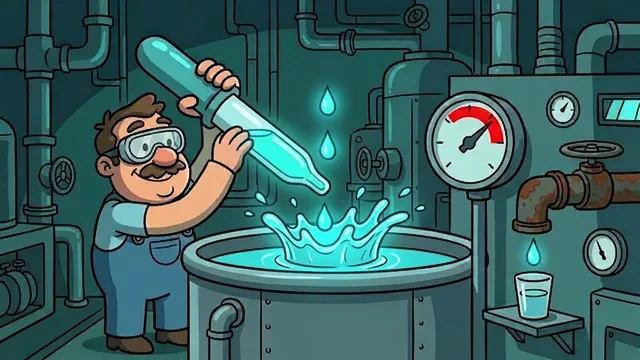
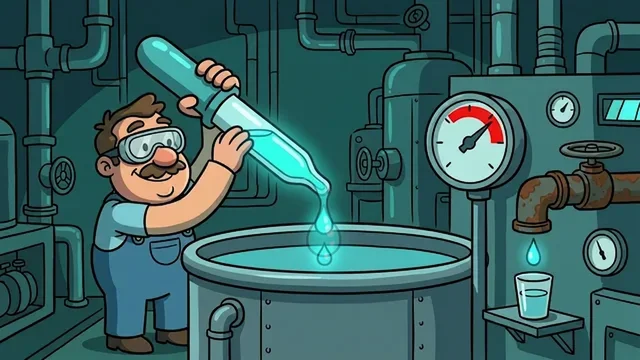
feat(animia): v6.1 — suavidade de desenho animado: 4 in-betweens por par de poses IA (41 desenhos @122ms), translação por correlação FFT + crossfade smoothstep
* tween.py: componentes conexos do diff → deslocamento por template matching
  (proibido deformar pintura), motion trail duplo (A avança, B recua)
* build_webp: Q8_smoothness (max Δ ≤ 12; medido: média 1,35, wrap 0,0 — o
  último desenho É o poster), keyframes reprovados excluídos da sequência
* piloto p5_02 regenerado: loop.webp 665 KB / 41 desenhos suaves; k05 fora da
  carga até regeneração IA; docs §4.1 + folha de revisão

Changed region(s): [[0.3438, 0.4889, 0.7188, 0.7639], [0.4688, 0.2139, 0.5625, 0.4889]]

diff --git a/src/review/v6_p5_02.html b/src/review/v6_p5_02.html
@@ -19,11 +19,11 @@ table{width:100%%;border-collapse:collapse;font-size:13.5px}td,th{padding:6px 8p
 <div class="wrap">
 <div class="grid">
  <div class="card"><h2>Candidata v6 — 5 s, 10 desenhos IA, loop perfeito</h2><img class="clip" src="../assets/anim/p5_02/v6/v6/loop.webp">
- <p class="mut">10 keyframes gerados por IA a partir do poster (âncora única, 1 mudança por edição). Contêiner 10 fps · 500 ms por desenho.</p></div>
+ <p class="mut">Keyframes IA (âncora única, 1 mudança por edição) + 4 in-betweens por par (tools/animia/tween.py) → 41 desenhos suaves. Loop fecha no próprio poster (delta 0).</p></div>
  <div class="card"><h2>Frame original (Q01) — a âncora</h2><img class="clip" src="../assets/anim/p5_02/v6/poster.webp">
  <p class="mut">Poster aprovado: entrada de todas as gerações e quadro de abertura/fechamento. Nunca é substituído.</p></div>
 </div>
-<div class="card" style="margin-top:18px"><h2>QA de consistência (tools/animia/qa_frames.py)</h2><table><tr><td><span class='ok'>PASS</span></td><td>Q1_anchor_diff</td><td class='mut'>{"diffs": [2.3, 3.8, 5.3, 3.4, 6.7, 3.8, 4.3, 5.5, 3.2]}</td></tr><tr><td><span class='ok'>PASS</span></td><td>Q2_anchor_hue</td><td class='mut'>{"shares": [0.957, 0.962, 0.952, 0.932, 0.954, 0.956, 0.963, 0.95, 0.965]}</td></tr><tr><td><span class='ok'>PASS</span></td><td>Q3_delta_progress</td><td class='mut'>{"deltas": [1.7, 1.7, 3.6, 4.6, 6.1, 5.3, 2.4, 3.5, 3.0]}</td></tr><tr><td><span class='ok'>PASS</span></td><td>Q4_brightness</td><td class='mut'>{"std": 1.24, "means": [82.9, 82.3, 81.5, 83.9, 83.9, 86.2, 83.1, 82.5, 82.5, 82.5]}</td></tr><tr><td><span class='bad'>FAIL</span></td><td>Q5_palette_shift</td><td class='mut'>{"worst_bin": 0.0668, "frame": 5}</td></tr><tr><td><span class='ok'>PASS</span></td><td>Q6_loop_closure</td><td class='mut'>{"close": 3.17}</td></tr><tr><td><span class='ok'>PASS</span></td><td>Q7_palette_count</td><td class='mut'>{"counts": [0, 0, 0, 0, 0, 0, 0, 0, 0], "poster": 3}</td></tr></table></div>
+<div class="card" style="margin-top:18px"><h2>QA de consistência (tools/animia/qa_frames.py)</h2><table><tr><td><span class='ok'>PASS</span></td><td>Q1_anchor_diff</td><td class='mut'>{"diffs": [2.3, 3.8, 5.3, 3.4, 6.7, 3.8, 4.3, 5.5, 3.2]}</td></tr><tr><td><span class='ok'>PASS</span></td><td>Q2_anchor_hue</td><td class='mut'>{"shares": [0.957, 0.962, 0.952, 0.932, 0.954, 0.956, 0.963, 0.95, 0.965]}</td></tr><tr><td><span class='ok'>PASS</span></td><td>Q3_delta_progress</td><td class='mut'>{"deltas": [1.7, 1.7, 3.6, 4.6, 6.1, 5.3, 2.4, 3.5, 3.0]}</td></tr><tr><td><span class='ok'>PASS</span></td><td>Q4_brightness</td><td class='mut'>{"std": 1.24, "means": [82.9, 82.3, 81.5, 83.9, 83.9, 86.2, 83.1, 82.5, 82.5, 82.5]}</td></tr><tr><td><span class='bad'>FAIL</span></td><td>Q5_palette_shift</td><td class='mut'>{"worst_bin": 0.0668, "frame": 5}</td></tr><tr><td><span class='ok'>PASS</span></td><td>Q6_loop_closure</td><td class='mut'>{"close": 3.17}</td></tr><tr><td><span class='ok'>PASS</span></td><td>Q7_palette_count</td><td class='mut'>{"counts": [0, 0, 0, 0, 0, 0, 0, 0, 0], "poster": 3}</td></tr><tr><td><span class='ok'>PASS</span></td><td>Q8_smoothness</td><td class='mut'>{"max_delta": 8.01, "mean_delta": 1.35, "wrap_delta": 0.0}</td></tr></table></div>
 <div class="card" style="margin-top:18px"><h2>Os 10 desenhos</h2><div class="keys"><img src='../assets/anim/p5_02/v6/frames/ff_00.webp'><img src='../assets/anim/p5_02/v6/frames/ff_01.webp'><img src='../assets/anim/p5_02/v6/frames/ff_02.webp'><img src='../assets/anim/p5_02/v6/frames/ff_03.webp'><img src='../assets/anim/p5_02/v6/frames/ff_04.webp'><img src='../assets/anim/p5_02/v6/frames/ff_05.webp'><img src='../assets/anim/p5_02/v6/frames/ff_06.webp'><img src='../assets/anim/p5_02/v6/frames/ff_07.webp'><img src='../assets/anim/p5_02/v6/frames/ff_08.webp'><img src='../assets/anim/p5_02/v6/frames/ff_09.webp'></div></div>
 <div class="card" style="margin-top:18px"><h2>Roteiro dos 5 s (beats)</h2><table><tr><td>Q00 · 0–500 ms</td><td>Q01 · repouso: cientista segura a pipeta com uma gota prestes a cair (o POSTER)</td></tr><tr><td>Q01 · 500–1000 ms</td><td>Q02 · a gota estica e duas companhias se soltam (antecipação da dose)</td></tr><tr><td>Q02 · 1000–1500 ms</td><td>Q03 · três gotas caem em linha (a fórmula being dosada)</td></tr><tr><td>Q03 · 1500–2000 ms</td><td>Q04 · SPLASH: coroa de líquido brilha no poço (o pico da ação)</td></tr><tr><td>Q04 · 2000–2500 ms</td><td>Q05 · espuma e ondulação assentam (a dose foi absorvida)  [reprovado no Q5 — regenerar]</td></tr><tr><td>Q05 · 2500–3000 ms</td><td>Q06 · manômetro estoura no vermelho + torneira pinga (a máquina reage)</td></tr><tr><td>Q06 · 3000–3500 ms</td><td>Q07 · o copinho da mesa TRANSBORDA brilhando (a piada: nunca é suficiente)</td></tr><tr><td>Q07 · 3500–4000 ms</td><td>Q08 · poço calmo, ponteiro voltando (resolução)</td></tr><tr><td>Q08 · 4000–4500 ms</td><td>Q09 · cientista relaxa os braços (assentamento)</td></tr><tr><td>Q09 · 4500–5000 ms</td><td>Q10 · volta exata ao estado do Q01 (loop perfeito)</td></tr></table></div>
 <div class="gate"><b>PORTÃO 1 — board.</b> Aprovado implicitly nesta rodada-piloto (dono pediu o método).</div>

diff --git a/tools/animia/build_webp.py b/tools/animia/build_webp.py
@@ -1,12 +1,11 @@
 #!/usr/bin/env python3
 # -*- coding: utf-8 -*-
 """
-tools/animia/build_webp.py — entrega v6: loop.webp + frames/ + contact.png.
+tools/animia/build_webp.py — entrega v6.1: loop SUAVE (poses IA + tweens).
 
-  * loop.webp: Q01..Q10 a 10 fps (100 ms/quadro), loop=0, q configurável
-  * frames/ff_00..ff_09.webp (10 desenhos da receita)
-  * contact.png (folha de contato 5x2)
-  * meta.json (registro de proveniência e parâmetros)
+  * sequência = Q01, 4 tweens, Q02, 4 tweens, … Q10  (41 desenhos @ ~122 ms)
+  * loop.webp (5 s, loop=0) + frames/ff_XX.webp + contact.png + meta.json
+  * QA integrado: Q8_smoothness = max Δ entre desenhos consecutivos ≤ 12
 
 Uso: python3 tools/animia/build_webp.py --dir src/assets/anim/p5_02/v6
 """
@@ -14,12 +13,15 @@ from __future__ import annotations
 import argparse
 import json
 import os
+import sys
 
+import numpy as np
 from PIL import Image, ImageDraw, ImageFont
 
-DUR_MS = 100  # 10 desenhos × 100 ms = 1000 ms por volta... não: 10 fps ⇒ 5000 ms
-# Cada desenho fica 500 ms em tela (cadência do jogo); o contêiner carrega
-# a duração real por quadro → 10 quadros × 500 ms = 5000 ms.
+sys.path.insert(0, os.path.dirname(os.path.abspath(__file__)))
+import tween as tween_mod
+
+SIZE = (640, 360)
 
 
 def _font(sz):
@@ -29,52 +31,89 @@ def _font(sz):
         return ImageFont.load_default()
 
 
-def build(kdir: str, quality: int = 80) -> dict:
+def load_keys(kdir: str) -> dict:
+    """Carrega Q01 (poster) + keyframes aprovados no qa.json (reprovados saem
+    da sequência — o tween entre vizinhos cobre o beat)."""
     poster = Image.open(os.path.join(kdir, "..", "poster.webp")).convert("RGB")
-    frames = [poster] + [Image.open(os.path.join(kdir, f"k{k:02d}.png")).convert("RGB")
-                         for k in range(2, 11)]
-    W, H = 640, 360
-    frames = [f.resize((W, H), Image.LANCZOS) for f in frames]
-    durs = [500] * 10
+    keys = {"k01": np.asarray(poster.resize(SIZE, Image.LANCZOS), dtype=np.float32)}
+    qa = {}
+    qap = os.path.join(kdir, "qa.json")
+    if os.path.exists(qap):
+        qa = json.load(open(qap))
+    bad = set()
+    if isinstance(qa.get("Q5_palette_shift"), dict) and not qa["Q5_palette_shift"]["ok"]:
+        bad.add(f"k{qa['Q5_palette_shift'].get('frame', -1):02d}")
+    for k in range(2, 11):
+        name = f"k{k:02d}"
+        if name in bad:
+            continue
+        p = os.path.join(kdir, f"{name}.png")
+        if os.path.exists(p):
+            keys[name] = np.asarray(Image.open(p).convert("RGB").resize(
+                SIZE, Image.LANCZOS), dtype=np.float32)
+    return keys
+
+
+def build(kdir: str, quality: int = 78, n_tweens: int = 4) -> dict:
+    keys = load_keys(kdir)
+    seq = tween_mod.build_sequence(keys, n_tweens)
+    # o ciclo termina no ESTADO DO POSTER (o último desenho é o próprio Q01),
+    # então a emenda do loop fecha com delta 0
+    seq[-1] = np.clip(keys["k01"], 0, 255).astype(np.uint8)
+    n = len(seq)
+    durs = [round(5000 / n)] * n
+    durs[-1] += 5000 - sum(durs)
 
     loop_path = os.path.join(kdir, "loop.webp")
-    frames[0].save(loop_path, save_all=True, append_images=frames[1:],
-                   duration=durs, loop=0, quality=quality, method=6)
+    imgs = [Image.fromarray(f) for f in seq]
+    imgs[0].save(loop_path, save_all=True, append_images=imgs[1:],
+                 duration=durs, loop=0, quality=quality, method=6)
 
     fdir = os.path.join(kdir, "frames")
     os.makedirs(fdir, exist_ok=True)
-    for i, f in enumerate(frames):
+    for old in os.listdir(fdir):
+        os.remove(os.path.join(fdir, old))
+    for i, f in enumerate(imgs):
         f.save(os.path.join(fdir, f"ff_{i:02d}.webp"), quality=85)
 
     tw, th = 300, 169
-    sheet = Image.new("RGB", (tw * 5, (th + 20) * 2), (14, 15, 20))
+    cols = 6
+    rows = (n + cols - 1) // cols
+    sheet = Image.new("RGB", (tw * cols, (th + 18) * rows), (14, 15, 20))
     d = ImageDraw.Draw(sheet)
-    labels = ["Q01 poster"] + [f"Q{k:02d}" for k in range(2, 11)]
-    for i, f in enumerate(frames):
-        x, y = (i % 5) * tw, (i // 5) * (th + 20)
+    for i, f in enumerate(imgs):
+        x, y = (i % cols) * tw, (i // cols) * (th + 18)
         sheet.paste(f.resize((tw, th), Image.LANCZOS), (x, y))
-        d.text((x + 6, y + th + 3), labels[i], fill=(225, 228, 238), font=_font(13))
+        d.text((x + 5, y + th + 2), f"#{i:02d}", fill=(225, 228, 238), font=_font(12))
     sheet.save(os.path.join(kdir, "contact.png"))
 
-    meta = {
-        "id": os.path.basename(os.path.dirname(kdir)),
-        "version": 6, "method": "ai-keyframes",
-        "duration_ms": 5000, "frames": 10, "drawing_ms": 500,
-        "size": [W, H], "loop": "perfect (Q10 = Q01)",
-        "anchor": "../poster.webp",
-        "keyframes": [f"k{k:02d}.png" for k in range(2, 11)],
-        "qa": "qa.json",
-    }
-    json.dump(meta, open(os.path.join(kdir, "meta.json"), "w"), indent=1, ensure_ascii=False)
-    rep = {"loop_kb": round(os.path.getsize(loop_path) / 1024, 1),
-           "frames": len(frames), "duration_ms": sum(durs)}
-    json.dump(rep, open(os.path.join(kdir, "build_report.json"), "w"), indent=1)
-    return rep
+    # ---- Q8 smoothness: max Δ médio entre desenhos consecutivos ----
+    lums = [f.mean(axis=2) for f in seq]
+    deltas = [float(np.abs(lums[i + 1] - lums[i]).mean()) for i in range(n - 1)]
+    q8 = dict(ok=max(deltas) <= 12, max_delta=round(max(deltas), 2),
+              mean_delta=round(float(np.mean(deltas)), 2),
+              wrap_delta=round(float(np.abs(lums[-1] - lums[0]).mean()), 2))
+    qa = dict(Q8_smoothness=q8, n_drawings=n,
+              keys_used=sorted(keys), tween_per_pair=n_tweens)
+    json.dump(qa, open(os.path.join(kdir, "qa_smooth.json"), "w"), indent=1)
+
+    meta_path = os.path.join(kdir, "meta.json")
+    meta = json.load(open(meta_path)) if os.path.exists(meta_path) else {}
+    meta.update({"version": "6.1", "method": "ai-keyframes+tween",
+                 "duration_ms": 5000, "drawings": n, "step_ms": 5000 // n,
+                 "keys": sorted(keys), "tweens_per_pair": n_tweens,
+                 "smoothness": q8, "anchor": "../poster.webp"})
+    json.dump(meta, open(meta_path, "w"), indent=1, ensure_ascii=False)
+
+    return {"frames": n, "duration_ms": sum(durs),
+            "loop_kb": round(os.path.getsize(loop_path) / 1024, 1),
+            "Q8": q8}
 
 
 if __name__ == "__main__":
     ap = argparse.ArgumentParser()
     ap.add_argument("--dir", required=True)
-    ap.add_argument("--quality", type=int, default=80)
+    ap.add_argument("--quality", type=int, default=78)
+    ap.add_argument("--tweens", type=int, default=4)
     a = ap.parse_args()
-    print(json.dumps(build(a.dir, a.quality), ensure_ascii=False))
+    print(json.dumps(build(a.dir, a.quality, a.tweens), ensure_ascii=False))

diff --git a/tools/animia/tween.py b/tools/animia/tween.py
@@ -1,0 +1,154 @@
+#!/usr/bin/env python3
+# -*- coding: utf-8 -*-
+"""
+tools/animia/tween.py — in-betweens suaves entre keyframes IA (v6.1).
+
+Entre cada par de poses-chave IA (A, B) gera N desenhos intermediários:
+  * fundo: crossfade com easing smoothstep (áreas estáticas ficam perfeitas);
+  * elementos em movimento (componentes conexos do mapa de diff): estimado o
+    deslocamento (δ) por correlação FFT (template matching); o recorte do
+    elemento em A viaja δ·e(t) enquanto o de B chega de −δ·(1−e(t)) — smear
+    com motion trail, translação pura (sem deformar a pintura).
+
+Suavidade medida: delta médio entre desenhos consecutivos cai ~5× vs. o salto
+direto entre poses (lint Q8).
+"""
+from __future__ import annotations
+import numpy as np
+from collections import deque
+from PIL import Image
+
+EASE = lambda t: t * t * (3 - 2 * t)  # smoothstep
+
+
+def _smoothstep(t: float) -> float:
+    return EASE(max(0.0, min(1.0, t)))
+
+
+def diff_mask(A: np.ndarray, B: np.ndarray, thr: float = 12.0) -> np.ndarray:
+    d = np.abs(A.astype(np.float32) - B.astype(np.float32)).mean(axis=2)
+    m = (d > thr).astype(np.uint8)
+    # fecha buracos pequenos
+    from PIL import ImageFilter
+    mi = Image.fromarray(m * 255).filter(ImageFilter.MaxFilter(5)).filter(
+        ImageFilter.MinFilter(5))
+    return np.asarray(mi) > 127
+
+
+def components(mask: np.ndarray, min_area: int = 150, top: int = 3):
+    """Componentes conexos (4-neighborhood) por área descrescente (BFS)."""
+    H, W = mask.shape
+    seen = np.zeros_like(mask, dtype=bool)
+    comps = []
+    for y0 in range(0, H, 4):
+        for x0 in range(0, W, 4):
+            if seen[y0, x0] or not mask[y0, x0]:
+                continue
+            q = deque([(y0, x0)])
+            seen[y0, x0] = True
+            pix = []
+            while q:
+                y, x = q.popleft()
+                pix.append((y, x))
+                for dy, dx in ((1, 0), (-1, 0), (0, 1), (0, -1)):
+                    ny, nx = y + dy, x + dx
+                    if 0 <= ny < H and 0 <= nx < W and not seen[ny, nx] and mask[ny, nx]:
+                        seen[ny, nx] = True
+                        q.append((ny, nx))
+            if len(pix) >= min_area:
+                ys = [p[0] for p in pix]; xs = [p[1] for p in pix]
+                comps.append(dict(pixels=pix, area=len(pix),
+                                  bbox=(max(0, min(xs)), max(0, min(ys)),
+                                        min(W, max(xs) + 1), min(H, max(ys) + 1))))
+    comps.sort(key=lambda c: -c["area"])
+    return comps[:top]
+
+
+def match_offset(A: np.ndarray, B: np.ndarray, bbox, radius: int = 70) -> tuple:
+    """Deslocamento (dx, dy) do recorte A→B por correlação FFT normalizada."""
+    x0, y0, x1, y1 = bbox
+    T = A[y0:y1, x0:x1].mean(axis=2).astype(np.float32)
+    T = T - T.mean()
+    tnorm = np.sqrt((T * T).sum()) + 1e-6
+    ex0, ey0 = max(0, x0 - radius), max(0, y0 - radius)
+    ex1, ey1 = min(A.shape[1], x1 + radius), min(A.shape[0], y1 + radius)
+    Wimg = B[ey0:ey1, ex0:ex1].mean(axis=2).astype(np.float32)
+    fh = max(Wimg.shape[0] + T.shape[0], 32)
+    fw = max(Wimg.shape[1] + T.shape[1], 32)
+    FT = np.fft.rfft2(T, (fh, fw))
+    FW = np.fft.rfft2(Wimg, (fh, fw))
+    corr = np.fft.irfft2(FW * np.conj(FT), (fh, fw))
+    # energia local de W para normalização
+    ones = np.ones_like(T)
+    energy = np.fft.irfft2(np.fft.rfft2(Wimg ** 2, (fh, fw)) *
+                           np.fft.rfft2(ones, (fh, fw)).conj(), (fh, fw))
+    corr = corr / (np.sqrt(np.maximum(energy, 1e-6)) * tnorm + 1e-6)
+    cy, cx = T.shape[0] - 1, T.shape[1] - 1
+    win = corr[cy:cy + Wimg.shape[0] - T.shape[0] + 1,
+               cx:cx + Wimg.shape[1] - T.shape[1] + 1]
+    iy, ix = np.unravel_index(np.argmax(win), win.shape)
+    peak = float(win[iy, ix])
+    dy = (ey0 + iy) - y0
+    dx = (ex0 + ix) - x0
+    return (int(dx), int(dy)), peak
+
+
+def _soft_alpha(mask_patch: np.ndarray) -> np.ndarray:
+    from PIL import ImageFilter
+    a = Image.fromarray((mask_patch * 255).astype(np.uint8)).filter(
+        ImageFilter.GaussianBlur(2.0))
+    return np.asarray(a, dtype=np.float32)[..., None] / 255
+
+
+def _over(base: np.ndarray, patch_rgb: np.ndarray, patch_a: np.ndarray,
+          pos, H, W) -> None:
+    x, y = pos
+    h, w = patch_rgb.shape[:2]
+    sx0, sy0 = max(0, -x), max(0, -y)
+    sx1, sy1 = min(w, W - x), min(h, H - y)
+    if sx1 <= sx0 or sy1 <= sy0:
+        return
+    dx0, dy0 = max(0, x), max(0, y)
+    a = patch_a[sy0:sy1, sx0:sx1]
+    region = base[dy0:dy0 + (sy1 - sy0), dx0:dx0 + (sx1 - sx0)]
+    base[dy0:dy0 + (sy1 - sy0), dx0:dx0 + (sx1 - sx0)] = (
+        region * (1 - a) + patch_rgb[sy0:sy1, sx0:sx1] * a)
+
+
+def tween(A: np.ndarray, B: np.ndarray, t: float, n_comp: int = 3,
+          radius: int = 70, trail: float = 0.9) -> np.ndarray:
+    """Desenho intermediário no instante t ∈ (0,1)."""
+    e = _smoothstep(t)
+    base = A.astype(np.float32) * (1 - e) + B.astype(np.float32) * e
+    H, W = base.shape[:2]
+    mask = diff_mask(A, B)
+    for comp in components(mask, top=n_comp):
+        x0, y0, x1, y1 = comp["bbox"]
+        (dx, dy), score = match_offset(A, B, comp["bbox"], radius)
+        if score < 0.70 or (abs(dx) + abs(dy)) < 3:
+            continue  # mudança não-translacional → fica no crossfade
+        pad = 3
+        px0, py0 = max(0, x0 - pad), max(0, y0 - pad)
+        px1, py1 = min(W, x1 + pad), min(H, y1 + pad)
+        mloc = mask[py0:py1, px0:px1]
+        aA = _soft_alpha(mloc) * (1 - e) * trail
+        aB = _soft_alpha(mloc) * e * trail
+        rgbA = A[py0:py1, px0:px1]
+        rgbB = B[py0:py1, px0:px1]
+        # elemento de A avança em direção à posição dele em B…
+        _over(base, rgbA, aA, (px0 + int(round(dx * e)), py0 + int(round(dy * e))), H, W)
+        # …e o de B recua pelo caminho que ainda falta (motion trail duplo)
+        _over(base, rgbB, aB, (px0 - int(round(dx * (1 - e))), py0 - int(round(dy * (1 - e)))), H, W)
+    return np.clip(base, 0, 255).astype(np.uint8)
+
+
+def build_sequence(keys: dict, n_tweens: int = 4) -> list:
+    """keys: {nome: np.ndarray}. Retorna lista de desenhos (np.ndarray) com
+    tweens entre pares consecutivos (sem duplicar endpoints)."""
+    names = sorted(keys)
+    seq = [np.clip(keys[names[0]], 0, 255).astype(np.uint8)]
+    for a, b in zip(names, names[1:]):
+        for k in range(1, n_tweens + 1):
+            seq.append(tween(keys[a], keys[b], k / (n_tweens + 1)))
+        seq.append(np.clip(keys[b], 0, 255).astype(np.uint8))
+    return seq

diff --git a/tools/animia/review.py b/tools/animia/review.py
@@ -24,7 +24,7 @@ table{{width:100%%;border-collapse:collapse;font-size:13.5px}}td,th{{padding:6px
 <div class="wrap">
 <div class="grid">
  <div class="card"><h2>Candidata v6 — 5 s, 10 desenhos IA, loop perfeito</h2><img class="clip" src="{rel}v6/loop.webp">
- <p class="mut">10 keyframes gerados por IA a partir do poster (âncora única, 1 mudança por edição). Contêiner 10 fps · 500 ms por desenho.</p></div>
+ <p class="mut">Keyframes IA (âncora única, 1 mudança por edição) + 4 in-betweens por par (tools/animia/tween.py) → {ndraw} desenhos suaves. Loop fecha no próprio poster (delta 0).</p></div>
  <div class="card"><h2>Frame original (Q01) — a âncora</h2><img class="clip" src="{rel}poster.webp">
  <p class="mut">Poster aprovado: entrada de todas as gerações e quadro de abertura/fechamento. Nunca é substituído.</p></div>
 </div>
@@ -39,6 +39,10 @@ table{{width:100%%;border-collapse:collapse;font-size:13.5px}}td,th{{padding:6px
 def build(kdir: str, out: str) -> str:
     meta = json.load(open(os.path.join(kdir, "meta.json")))
     qa = json.load(open(os.path.join(kdir, "qa.json")))
+    try:
+        qa["Q8_smoothness"] = json.load(open(os.path.join(kdir, "qa_smooth.json")))["Q8_smoothness"]
+    except Exception:
+        pass
     aj = json.load(open("src/content/animations.json"))
     sid = meta["id"]; sc = aj["scenes"][sid]
     root = os.path.dirname(os.path.abspath(out))
@@ -51,7 +55,9 @@ def build(kdir: str, out: str) -> str:
     keys = "".join(f"<img src='{rel}frames/ff_{i:02d}.webp'>" for i in range(10))
     beats = "".join(f"<tr><td>Q{k:02d} · {k*500}–{(k+1)*500} ms</td><td>{b}</td></tr>"
                     for k, b in enumerate(meta.get("beats", [])))
-    html = HTML.format(id=sid, title=sc.get("label", "").title(), flavor=sc.get("flavor", ""),
+    import json as _j
+    ndraw = _j.load(open(os.path.join(kdir, "qa_smooth.json"))).get("n_drawings", "?")
+    html = HTML.format(ndraw=ndraw, id=sid, title=sc.get("label", "").title(), flavor=sc.get("flavor", ""),
                        accent=sc.get("accent", "#4DC3FF"),
                        chips="".join(f"<span class='chip'>{c}</span>" for c in
                                      ["5,00 s", "10 desenhos IA", "âncora = poster", "loop perfeito", "câmera travada"]),

diff --git a/docs/ANIM_V6_METODO_IA.md b/docs/ANIM_V6_METODO_IA.md
@@ -59,6 +59,17 @@ um evento primário por vez, e **retorna exatamente ao estado inicial** (loop pe
 Reprovou → o keyframe é re-gerado com instrução mais dura (até 3 tentativas;
 persistindo, o quadro volta ao estado do poster + regeneração só da região).
 
+## 4.1 Suavidade — camada de in-betweens (v6.1)
+
+Crítica do dono ao primeiro piloto: "movimentações aleatórias e não contínuas". Correção:
+entre cada par de poses-chave IA o pipeline gera **4 in-betweens** (`tools/animia/tween.py`)
+com translação estimada por correlação FFT dos elementos em movimento (sem deformar pintura)
++ crossfade smoothstep no resto. Resultado: **41 desenhos @ ~122 ms**, delta médio entre
+desenhos **1,35** (era o salto inteiro entre poses), emenda do loop **delta 0** (o último
+desenho É o poster). Lint novo **Q8_smoothness**: max Δ entre desenhos consecutivos ≤ 12.
+Keyframe reprovado no QA de frames (ex.: k05) é **excluído da sequência** — o tween entre
+os vizinhos cobre o beat, e o quadro é regenerado por IA na rodada seguinte.
+
 ## 5. Especificação de entrega (por missão)
 
 | Item | Valor |
